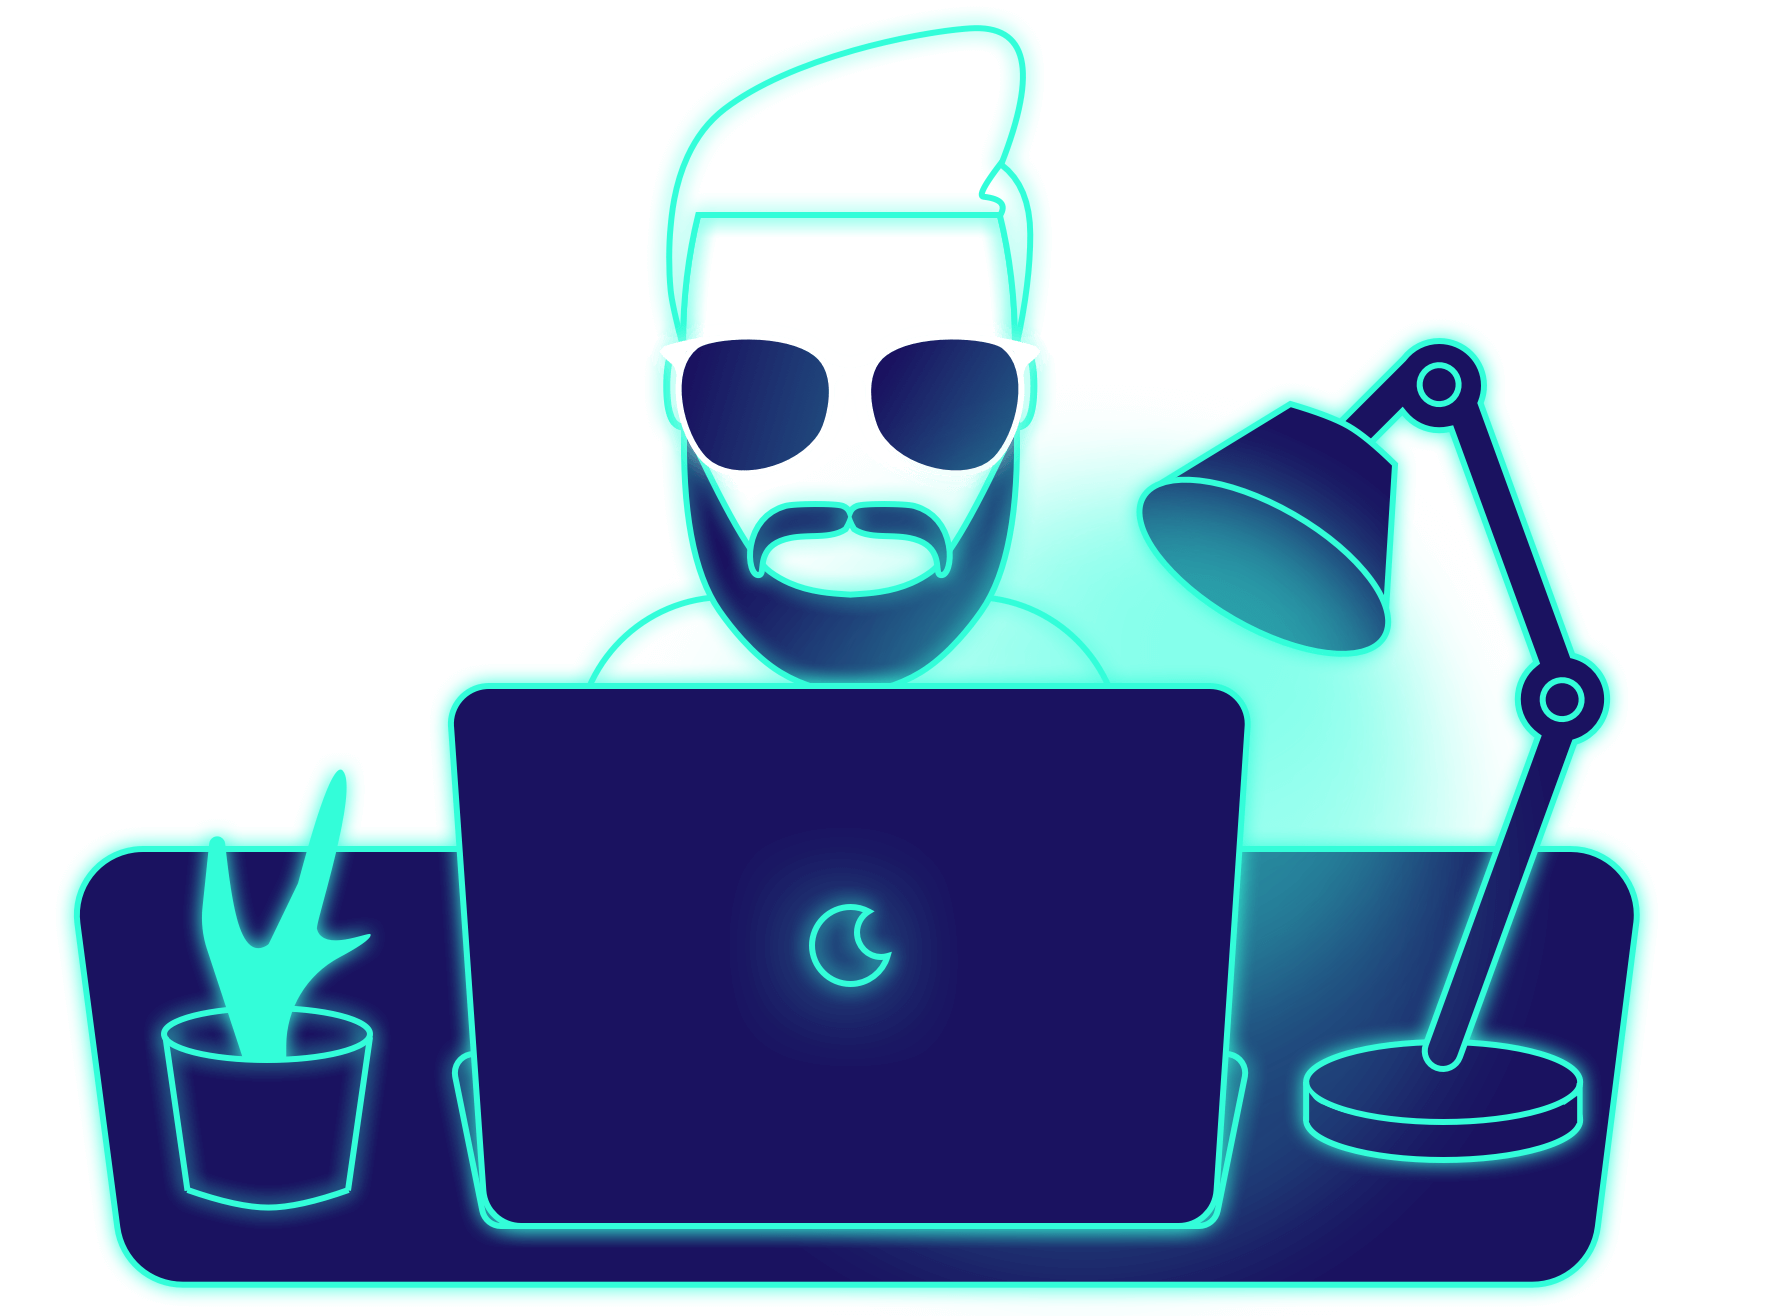
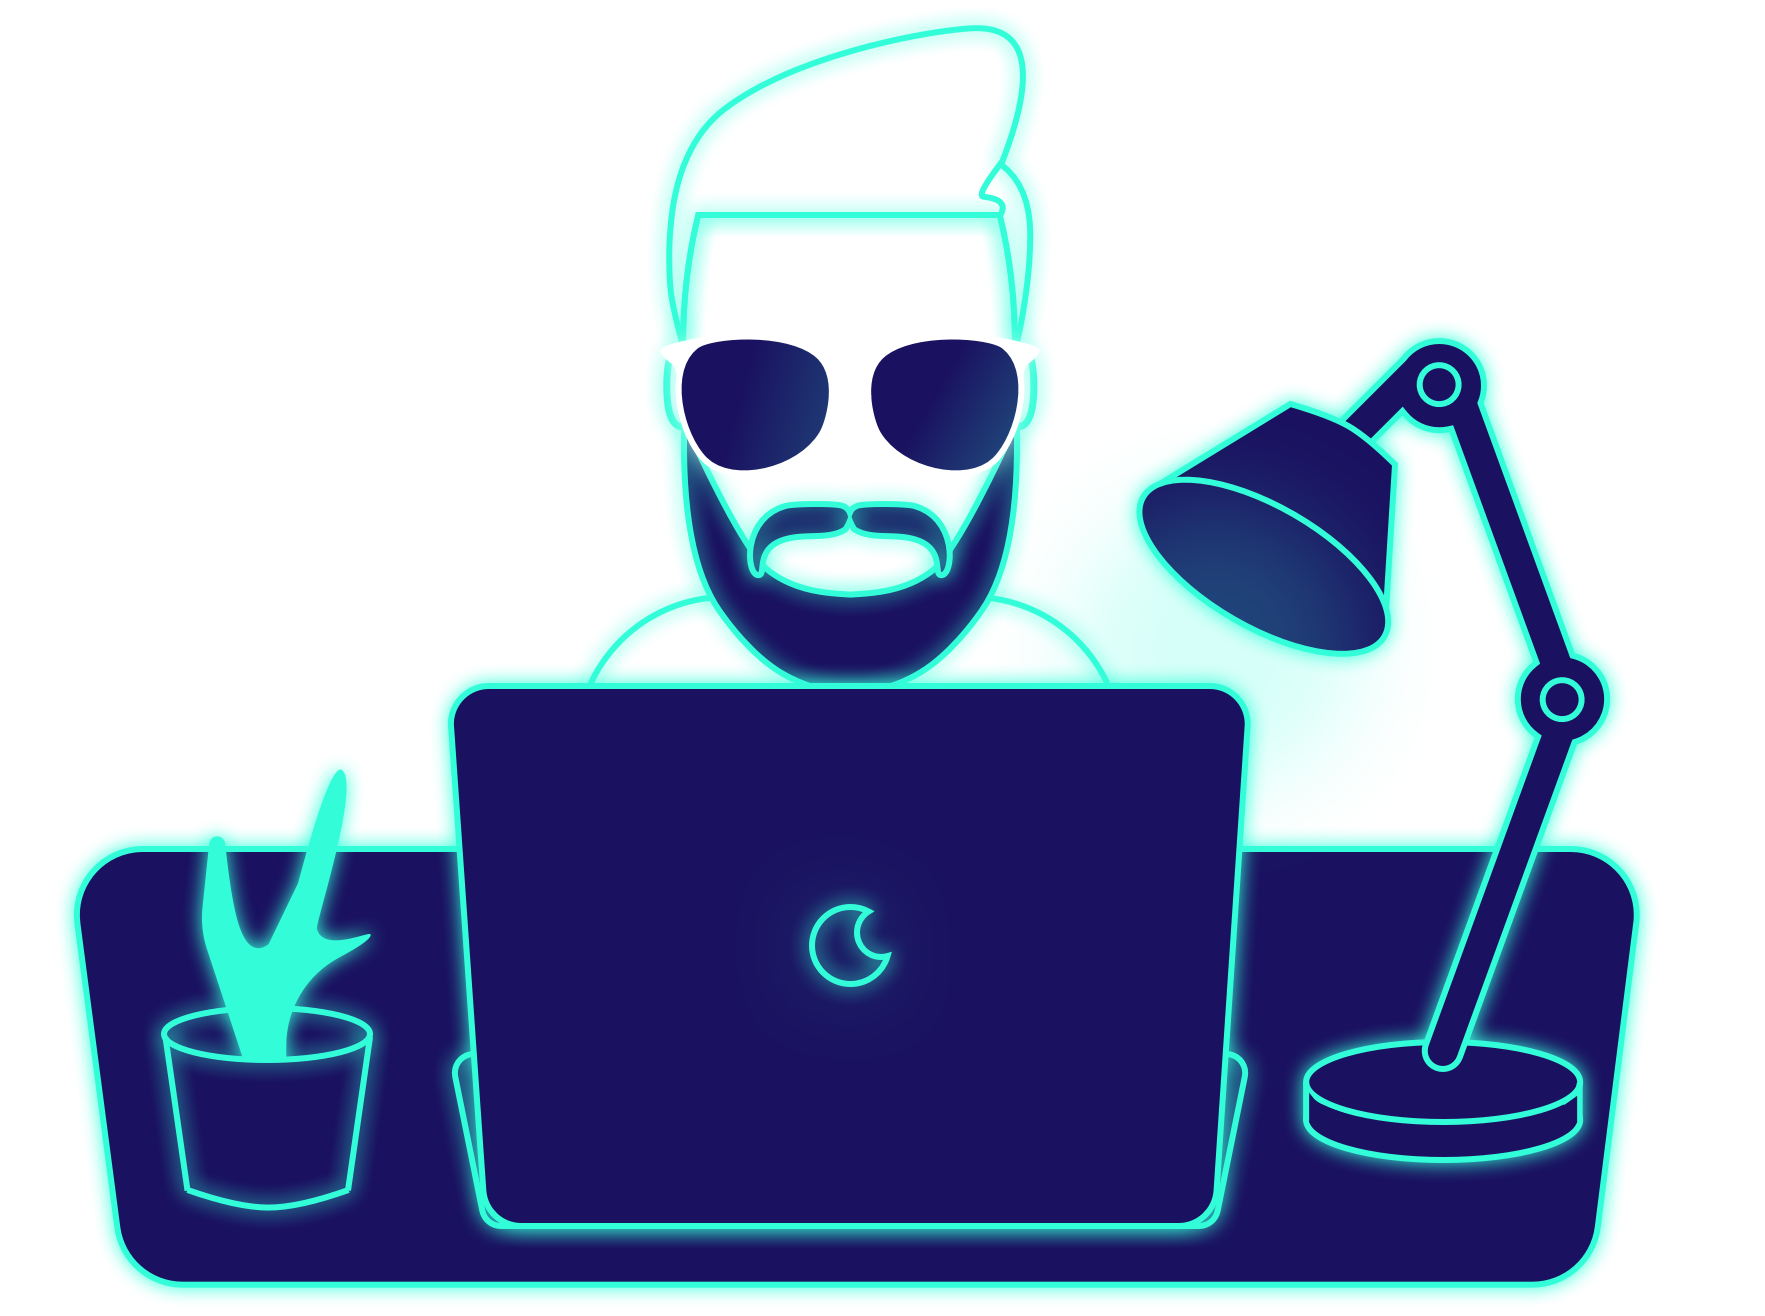
hero image animation

Changed region(s): [[0.4363, 0.2492, 0.8414, 0.9658], [0.4363, 0.6854, 0.5297, 0.7789]]

diff --git a/src/style.css b/src/style.css
@@ -270,7 +270,15 @@ a {
     background-size: 100%;
     background-repeat: no-repeat;
     background-position-y: 50%;
-    transition: all 0.3ms linear;
+    animation-name: glow;
+    animation-duration: 3s;
+    animation-iteration-count: infinite;
+}
+
+@keyframes glow {
+    0%   {background-image: url(../assets/images/hero_image_2.png);}
+    50%  {background-image: url(../assets/images/hero_image_3.png);}
+    100% {background-image: url(../assets/images/hero_image_2.png);}
 }
 
 .hidden {

diff --git a/src/script.js b/src/script.js
@@ -20,6 +20,7 @@ window.onload = function () {
         // XHR to request a JS and a CSS
         var xhr = new XMLHttpRequest();
         new Image().src = './assets/images/hero_image_2.png';
+        new Image().src = './assets/images/hero_image_3.png';
     }, 1000);
 }
 
